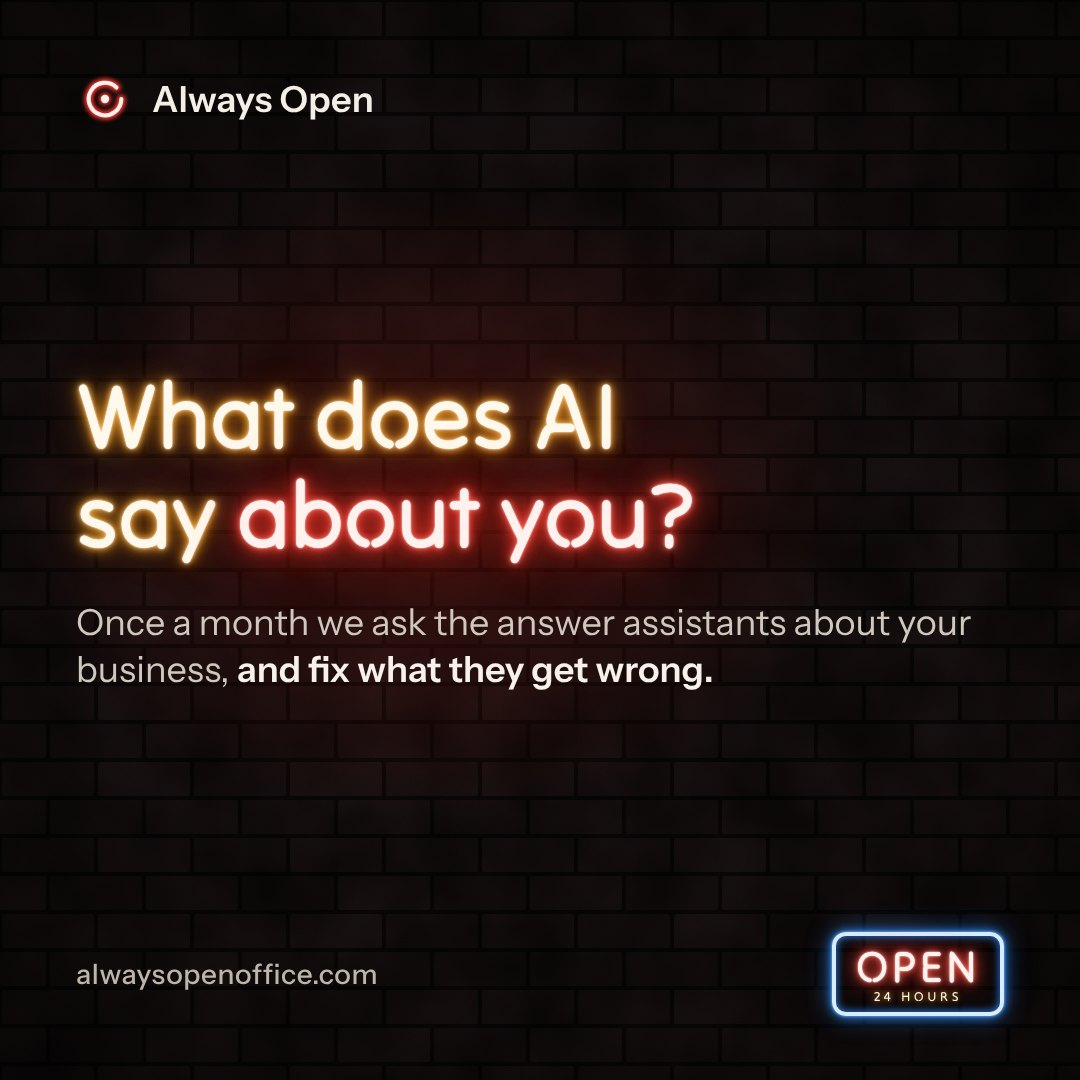
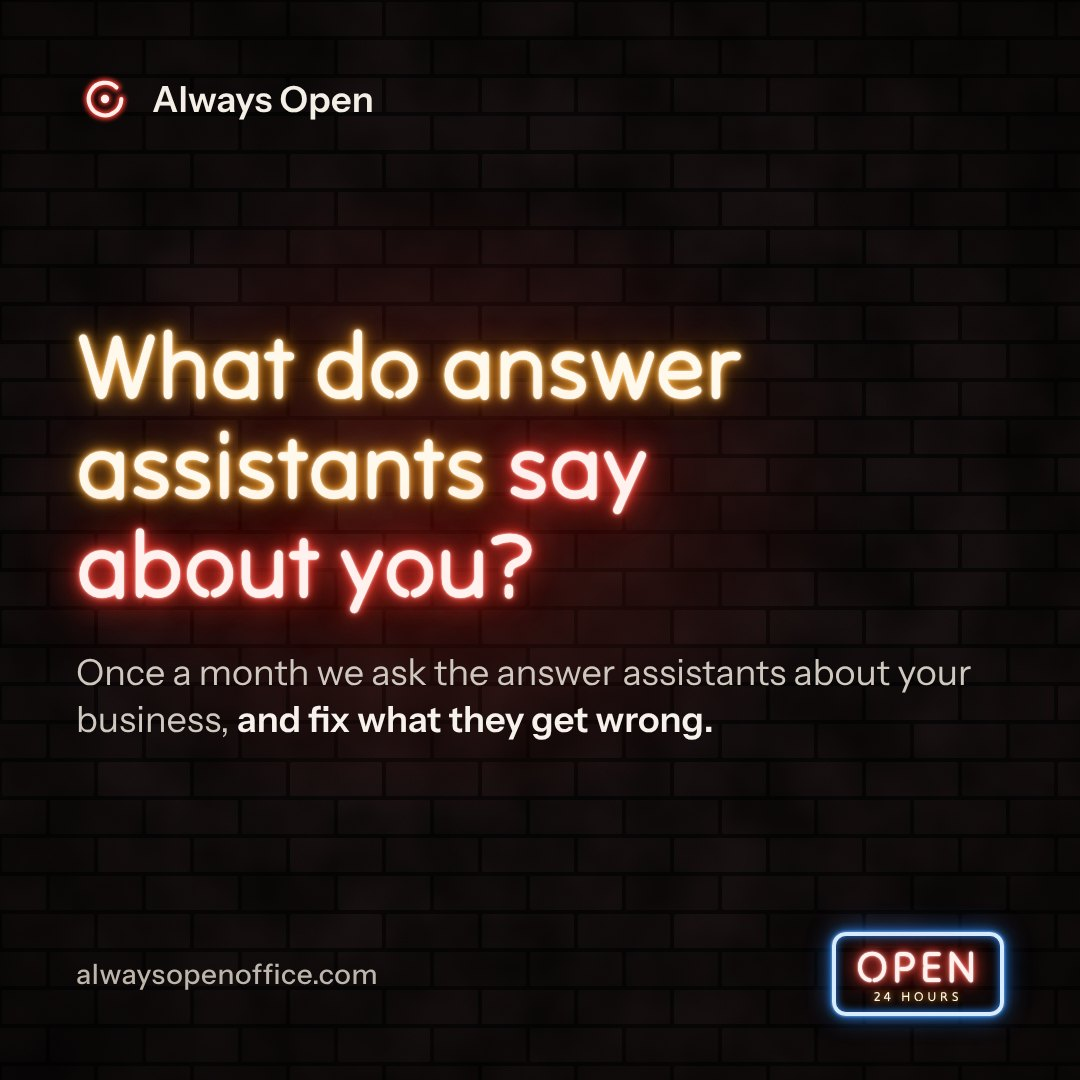
Posts open with what Always Open is; no 'AI' in post wording
- New first post in the rotation: the back side of your business, run for you (office.jpg).
- The answer-assistants card and captions no longer say AI; caption instructions present the whole
  back office with Max as one part, and never use the word.

Claude-Session: https://claude.ai/code/session_013ApArkW5ySxC8yc6yFKH28

Changed region(s): [[0.0611, 0.3056, 0.8861, 0.7028]]

diff --git a/src/social.js b/src/social.js
@@ -15,6 +15,8 @@ export const POST_HOUR = 10;          // Eastern
 // The rotation. Each theme has a card (public/social/<name>.jpg), what to tell Claude, and the caption used if Claude
 // cannot answer, so a posting day never goes quiet. Numbers in a caption come only from what we measured.
 export const THEMES = [
+  { name: 'office', card: 'office.jpg', about: 'What Always Open is: the back side of a small business, run for the owner. Calls answered day and night, every review replied to, quotes and invoices followed up, open days filled from past customers who are due, the Google listing kept current, and a network of member businesses that send each other work. Max is the voice on the phone; the rest is a team working while the owner works. The owner approves everything from their phone.',
+    fallback: 'We run the back side of your business: calls answered day and night, every review replied to, quotes and invoices followed up, open days filled from your own customer list, and your Google listing kept current. You approve it all from your phone. alwaysopenoffice.com' },
   { name: 'missed', card: 'missed.jpg', about: 'The call the business missed. Most callers who reach voicemail hang up and call the next name on Google. Max answers every call, day or night, and texts the owner the lead.',
     fallback: 'Most callers who get voicemail don’t leave a message. They call the next name on Google. Max picks up every call to your business, day or night, and texts you who called and what they need. alwaysopenoffice.com' },
   { name: 'checkin', card: 'checkin.jpg', about: 'The three-day check-in. Three days after a job, Max calls the customer to ask whether the work held up. Pressing 1 turns into a review request; pressing 2 reaches the owner first, so they can fix it before it becomes a bad review.',
@@ -37,8 +39,8 @@ export const THEMES = [
     fallback: 'No more \u201csomeone will call you back.\u201d Max books a real call-back time from your calendar, like 4:15 today. If it slips, he calls the customer to set a new one. alwaysopenoffice.com' },
   { name: 'max', card: 'max.jpg', about: 'Meet Max, the phone line. Anyone can call (706) 460-2226 right now and hear how Max answers for a business. Dare them to.',
     fallback: 'Want to hear what your callers would get? Call Max. We dare you. (706) 460-2226. He answers for businesses like yours day and night, takes the details, and texts the owner. alwaysopenoffice.com' },
-  { name: 'assistants', card: 'assistants.jpg', about: 'What AI assistants say about the business. More customers ask an answer assistant who to call. Once a month Always Open asks them about each business it works for and fixes whatever they get wrong at the source, such as an old phone number on a listing site.',
-    fallback: 'More customers ask an AI assistant who to call. Does it give the right number for your business? Once a month we ask them about you, and fix whatever they get wrong at the source. alwaysopenoffice.com' }
+  { name: 'assistants', card: 'assistants.jpg', about: 'What answer assistants say about the business. More customers ask an answer assistant who to call. Once a month Always Open asks them about each business it works for and fixes whatever they get wrong at the source, such as an old phone number on a listing site.',
+    fallback: 'More customers ask an answer assistant on their phone who to call. Does it give the right number for your business? Once a month we ask them about you, and fix whatever they get wrong at the source. alwaysopenoffice.com' }
 ];
 export const TIPS = [
   'Reply to every review within a day, the good ones too. People read the replies as closely as the reviews.',
@@ -89,8 +91,8 @@ export function caughtFallback(n) {
   return 'This week Max answered ' + w(n.calls, 'call', 'calls') + ' for the businesses we work for' + (n.after ? ', ' + w(n.after, 'of them', 'of them') + ' after hours or on the weekend' : '') + (n.leads ? ', and passed on ' + w(n.leads, 'new lead', 'new leads') : '') + (n.booked ? ' with ' + w(n.booked, 'job booked', 'jobs booked') : '') + '. Every one of those callers heard a real answer instead of voicemail. alwaysopenoffice.com';
 }
 
-const SYS = 'You write the Facebook and Instagram caption for Always Open, a small company in Lake Country, Georgia that answers phones for small businesses (Max, its AI phone line, takes the call and texts the owner), replies to their reviews, keeps their Google profile current and follows up on jobs. It also calls customers three days after a job, offers open days to past customers, drafts storm-day posts, books call-backs at set times, passes callers to nearby member businesses and checks what AI assistants say about each business. The owner approves everything from their phone. ' +
-  'Return only the caption: two to four short sentences, plain words, warm and direct, written to a small business owner. No hype, no emoji, no hashtags, no exclamation marks, no quotes around it, no "we" claims that are not in the notes. Use only the numbers in the notes and say nothing about results we did not measure. End with alwaysopenoffice.com or, when the notes give it, the phone number.';
+const SYS = 'You write the Facebook and Instagram caption for Always Open, a small company in Lake Country, Georgia that runs the back side of small businesses: it answers their phones (Max, its phone line, takes the call and texts the owner), replies to their reviews, keeps their Google profile current and follows up on jobs. It also calls customers three days after a job, offers open days to past customers, drafts storm-day posts, books call-backs at set times, passes callers to nearby member businesses and checks what AI assistants say about each business. The owner approves everything from their phone. ' +
+  'Never use the word AI. Present Always Open as the whole back office, with Max as one part of it, not as an answering service. Return only the caption: two to four short sentences, plain words, warm and direct, written to a small business owner. No hype, no emoji, no hashtags, no exclamation marks, no quotes around it, no "we" claims that are not in the notes. Use only the numbers in the notes and say nothing about results we did not measure. End with alwaysopenoffice.com or, when the notes give it, the phone number.';
 export async function writeCaption(env, theme, notes) {
   if (!env.ANTHROPIC_API_KEY) return '';
   const r = await fetch('https://api.anthropic.com/v1/messages', { method: 'POST',

diff --git a/test/social.test.js b/test/social.test.js
@@ -42,16 +42,16 @@ test('connected: one post on a posting day in the 10 AM hour, to the Page and In
   assert.deepEqual(await socialCron(env, Date.parse('2026-11-02T14:15:00Z'), k.h), { skipped: 'not the hour' }, '9:15 AM is too early');
   assert.deepEqual(await socialCron(env, Date.parse('2026-11-03T15:15:00Z'), k.h), { skipped: 'not the hour' }, 'Tuesday is not a posting day');
   const r = await socialCron(env, monday10, k.h);
-  assert.deepEqual(r, { posted: true, theme: 'missed', result: 'fb:ok,ig:ok' });
+  assert.deepEqual(r, { posted: true, theme: 'office', result: 'fb:ok,ig:ok' });
   assert.equal(world.calls.filter(c => c.host === 'api.anthropic.com').length, 1, 'Claude wrote the caption');
   const fb = world.calls.filter(c => c.host === 'graph.facebook.com').map(c => c.path);
   assert.deepEqual(fb, ['/v21.0/pg1/photos', '/v21.0/ig1/media', '/v21.0/ig1/media_publish']);
-  assert.match(world.calls.find(c => c.path === '/v21.0/pg1/photos').body, /url=https%3A%2F%2Falwaysopenoffice.com%2Fsocial%2Fmissed.jpg/);
+  assert.match(world.calls.find(c => c.path === '/v21.0/pg1/photos').body, /url=https%3A%2F%2Falwaysopenoffice.com%2Fsocial%2Foffice.jpg/);
   assert.deepEqual(await socialCron(env, monday10 + 20 * 60e3, k.h), { skipped: 'done today' });
   assert.equal(k.pings.length, 1); assert.equal(k.pings[0].t, 'Posted to Facebook and Instagram');
   const row = await db.prepare('SELECT day, theme, text, result FROM social_posts').first();
-  assert.deepEqual(row, { day: '2026-11-02', theme: 'missed', text: world.caption, result: 'fb:ok,ig:ok' });
-  assert.match(await socialLine(env), /^posting to Always Open and Instagram Monday, Wednesday and Friday; last: 2026-11-02 \(missed, fb:ok,ig:ok\)$/);
+  assert.deepEqual(row, { day: '2026-11-02', theme: 'office', text: world.caption, result: 'fb:ok,ig:ok' });
+  assert.match(await socialLine(env), /^posting to Always Open and Instagram Monday, Wednesday and Friday; last: 2026-11-02 \(office, fb:ok,ig:ok\)$/);
 });
 
 test('Claude down: our own words go up; Facebook down: one alert and the day is logged as failed', async () => {
@@ -60,22 +60,24 @@ test('Claude down: our own words go up; Facebook down: one alert and the day is 
   const world = { calls: [], claudeDown: true }; fakeNet(world);
   const k = hooks();
   const r = await socialCron(env, monday10, k.h);
-  assert.deepEqual(r, { posted: true, theme: 'missed', result: 'fb:ok (own words)' });
+  assert.deepEqual(r, { posted: true, theme: 'office', result: 'fb:ok (own words)' });
   assert.equal((await db.prepare('SELECT text FROM social_posts').first()).text, THEMES[0].fallback);
   world.fbDown = true;
   const r2 = await socialCron(env, Date.parse('2026-11-04T15:15:00Z'), k.h);   // Wednesday
-  assert.equal(r2.posted, false); assert.equal(r2.theme, 'checkin', 'the second post is the three-day check-in');
+  assert.equal(r2.posted, false); assert.equal(r2.theme, 'missed', 'the second post is the missed call');
   assert.match(r2.result, /^fb:fail \(Invalid OAuth access token\) \(own words\)$/);
   assert.equal(k.alerts.length, 1); assert.equal(k.alerts[0].type, 'social'); assert.match(k.alerts[0].detail, /did not go up: fb:fail/);
 });
 
 test('the rotation and the week numbers', async () => {
-  assert.equal(pickTheme(0).name, 'missed');
-  assert.equal(pickTheme(1).name, 'checkin');
-  assert.equal(pickTheme(4, { calls: 2 }).name, 'storm', 'too few calls to say anything');
-  assert.equal(pickTheme(4, { calls: 12 }).name, 'caught');
-  assert.equal(pickTheme(16, { calls: 12 }).name, 'caught');
-  assert.equal(pickTheme(10).name, 'max');
+  assert.equal(pickTheme(0).name, 'office', 'the first post says what Always Open is');
+  assert.equal(pickTheme(1).name, 'missed');
+  assert.equal(pickTheme(2).name, 'checkin');
+  assert.equal(pickTheme(5, { calls: 2 }).name, 'storm', 'too few calls to say anything');
+  assert.equal(pickTheme(5, { calls: 12 }).name, 'caught');
+  assert.equal(pickTheme(18, { calls: 12 }).name, 'caught');
+  assert.equal(pickTheme(11).name, 'max');
+  for (const th of THEMES) assert.doesNotMatch(th.about + ' ' + th.fallback, /\bAI\b/, th.name + ' never says AI');
   // Every theme has its card on the site and a caption to fall back on (only 'caught' waits for real numbers).
   const fs = await import('node:fs');
   for (const th of THEMES) {
@@ -83,7 +85,7 @@ test('the rotation and the week numbers', async () => {
     assert.ok(th.about.length > 40, th.name);
     if (th.name !== 'caught') assert.match(th.fallback, /alwaysopenoffice\.com|460-2226/, th.name);
   }
-  assert.equal(new Set(THEMES.map(th => th.name)).size, 12);
+  assert.equal(new Set(THEMES.map(th => th.name)).size, 13);
   const db = makeDB(); const env = { DB: db };
   await db.prepare("INSERT INTO app_clients (client_id, code_hash, business, active) VALUES ('c1', 'h1', 'Sinclair Plumbing', 1)").run();
   const now = Date.parse('2026-11-02T15:15:00Z');
